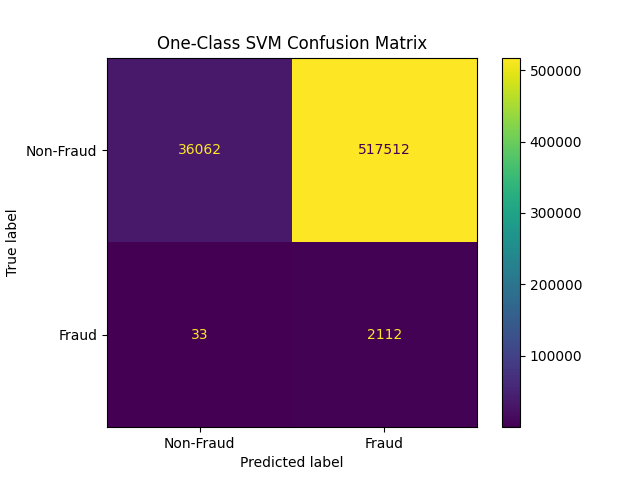
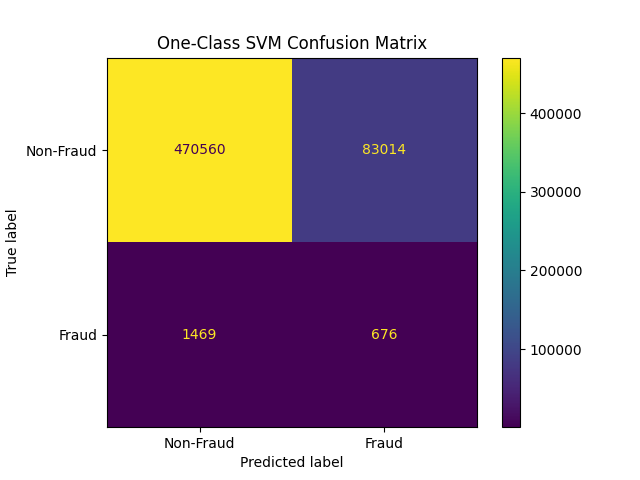
Update comparison with results from full dataset

diff --git a/README.md b/README.md
@@ -179,24 +179,22 @@ Isolation Forest:
 |              | precision | recall | f1-score | support |
 |--------------|-----------|--------|----------|---------|
 | 0.0          | 1.00      | 0.97   | 0.98     | 553574  |
-| 1.0          | 0.02      | 0.16   | 0.04     | 2145    |
-| accuracy     |           |        | 0.97     | 555719  |
-| macro avg    | 0.51      | 0.57   | 0.51     | 555719  |
-| weighted avg | 0.99      | 0.97   | 0.98     | 555719  |
+| 1.0          | 0.02      | 0.21   | 0.04     | 2145    |
+| accuracy     |           |        | 0.96     | 555719  |
+| macro avg    | 0.51      | 0.59   | 0.51     | 555719  |
+| weighted avg | 0.99      | 0.96   | 0.98     | 555719  |
 
 ![covariance matrix](images/IFcm.png)
-
-
 
 Local Outlier Factor:
 
 |              | precision | recall | f1-score | support |
 |--------------|-----------|--------|----------|---------|
-| 0.0          | 0.79      | 0.00   | 0.00     | 553574  |
-| 1.0          | 0.00      | 0.85   | 0.01     | 2145    |
-| accuracy     |           |        | 0.01     | 555719  |
-| macro avg    | 0.39      | 0.43   | 0.01     | 555719  |
-| weighted avg | 0.78      | 0.01   | 0.00     | 555719  |
+| 0.0          | 1.00      | 0.63   | 0.77     | 553574  |
+| 1.0          | 0.00      | 0.24   | 0.00     | 2145    |
+| accuracy     |           |        | 0.63     | 555719  |
+| macro avg    | 0.50      | 0.44   | 0.39     | 555719  |
+| weighted avg | 0.99      | 0.63   | 0.77     | 555719  |
 
 ![covariance matrix](images/LOFcm.png)
 
@@ -204,11 +202,11 @@ One-Class SVM:
 
 |              | precision | recall | f1-score | support |
 |--------------|-----------|--------|----------|---------|
-| 0.0          | 1.00      | 0.07   | 0.12     | 553574  |
-| 1.0          | 0.00      | 0.98   | 0.01     | 2145    |
-| accuracy     |           |        | 0.07     | 555719  |
-| macro avg    | 0.50      | 0.52   | 0.07     | 555719  |
-| weighted avg | 1.00      | 0.07   | 0.12     | 555719  |
+| 0.0          | 1.00      | 0.85   | 0.92     | 553574  |
+| 1.0          | 0.01      | 0.32   | 0.02     | 2145    |
+| accuracy     |           |        | 0.85     | 555719  |
+| macro avg    | 0.50      | 0.58   | 0.47     | 555719  |
+| weighted avg | 0.99      | 0.85   | 0.91     | 555719  |
 
 ![covariance matrix](images/OCSVMcm.png)
 
@@ -252,7 +250,7 @@ Added model saving and loading, extracted the data loading and preprocessing int
 
 
 
-
+---
 
 ## Sources
 [comment]: <> (TODO: Add better citations)
